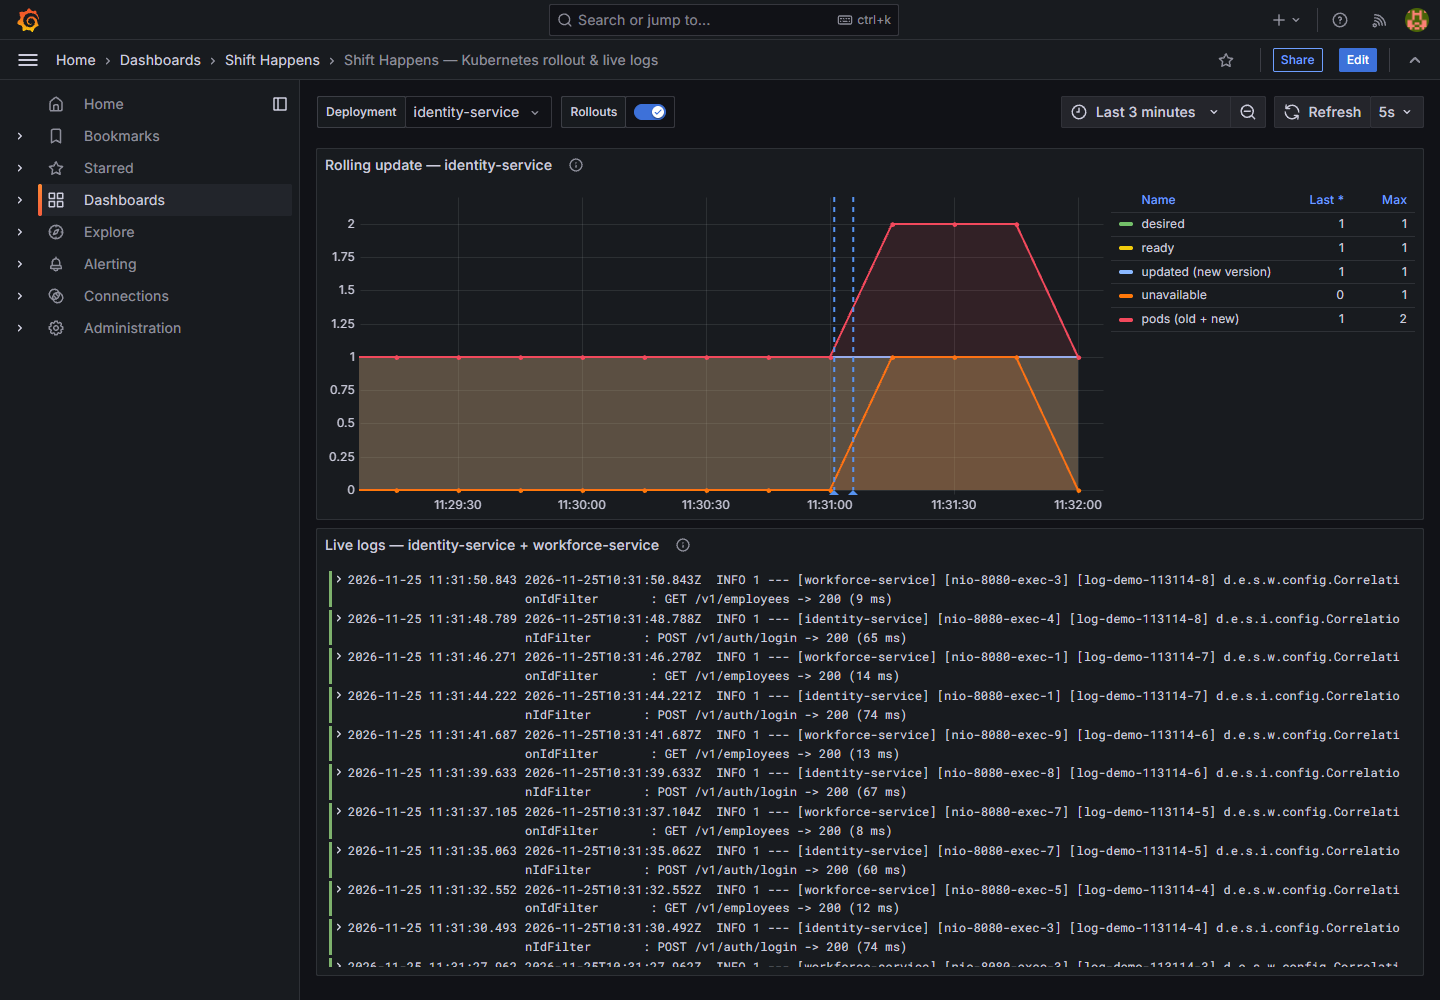
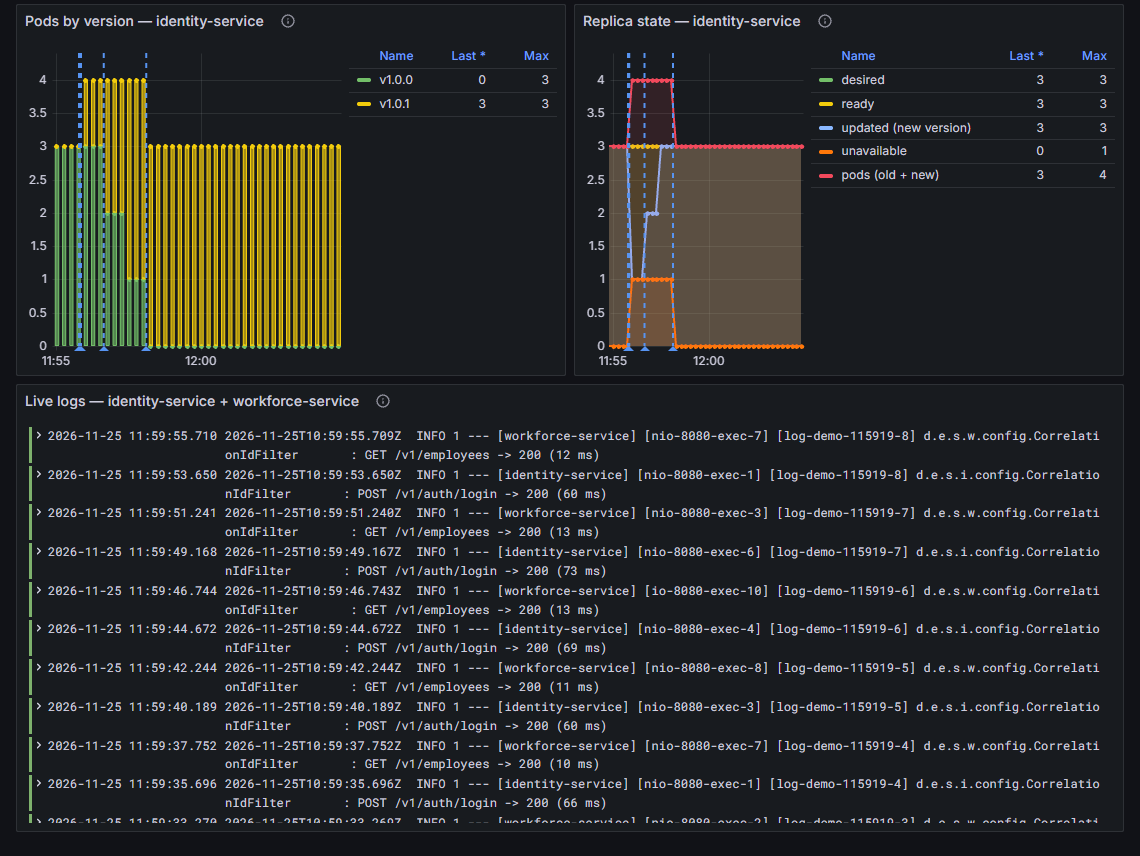
feat(observability): show versioned Kubernetes rollout

diff --git a/kubernetes/README.md b/kubernetes/README.md
@@ -16,7 +16,7 @@ kubernetes/
   tempo/, loki/, prometheus/, grafana/  local observability stack
   autoscaling/       hpa.yaml (CPU) + keda.yaml (queue-based ScaledObject/ScaledJob) + optional metrics bridge example
   metrics-server/    install note for the metrics API used by the HPAs
-  observability/     kube-state-metrics (Deployment replica metrics for the Grafana autoscaling panel)
+  observability/     kube-state-metrics (Deployment and pod/version metrics for Grafana)
   infrastructure/    cluster add-ons (ingress-nginx, KEDA, metrics-server)
   namespace.yaml     the shift-happens namespace
   ingress.yaml       ingress-nginx rules, same paths as the Compose Caddyfile
@@ -189,28 +189,42 @@ branch `main`, `services` = `all`.
 ## Rolling update demo (Grafana)
 
 The Compose Grafana instance (`http://localhost:3001`) scrapes kube-state-metrics and Loki from the
-Kubernetes stack, so it can show a Kubernetes rollout next to live application logs. The dashboards
-are **Shift Happens — Kubernetes rollout & live logs** and the Compose **Shift Happens — Live
-System**.
+Kubernetes stack, so it can show a version-aware Kubernetes rollout next to live application logs.
+The dashboard is **Shift Happens — Kubernetes rollout & live logs**.
 
 ```powershell
-# One new ReplicaSet, paused briefly so the overlap is visible in Prometheus.
-.\scripts\kubernetes-rollout-demo.ps1 -Deployment identity-service -PauseSeconds 60
+# identity-service is prepared at 3 x v1.0.0, then rolled to 3 x v1.0.1.
+# The default pause is 60 s; use -PauseSeconds 0 to let it run through.
+.\scripts\kubernetes-rollout-demo.ps1 `
+  -Deployment identity-service `
+  -FromVersion v1.0.0 `
+  -ToVersion v1.0.1 `
+  -Replicas 3 `
+  -PauseSeconds 60
 
 # Generate request logs in Identity and Workforce for the same dashboard.
 .\scripts\live-log-demo.ps1 -Gateway https://localhost:8443 -Count 12
 ```
 
-Open <http://localhost:3001/d/shift-happens-kubernetes-rollout>. Select the deployment in the
-**Deployment** variable; the panel shows desired, ready, updated, unavailable and the total old +
-new pod count. The script adds Grafana annotations for start, pause and resume so the screenshot
-shows exactly when the rollout happened. The captured example is
+Open <http://localhost:3001/d/shift-happens-kubernetes-rollout>. The **Pods by version** panel
+counts Running pods from `kube_pod_labels` and shows the intended sequence:
+
+| Phase | v1.0.0 | v1.0.1 | Total pods |
+|---|---:|---:|---:|
+| Baseline | 3 | 0 | 3 |
+| First new pod, rollout paused | 3 | 1 | 4 |
+| Rolling replacement | 2 | 2 | 4 |
+| Complete | 0 | 3 | 3 |
+
+The **Replica state** panel shows desired/ready/updated/unavailable and `pods (old + new)`. The script
+adds Grafana annotations for baseline, pause and completion. The captured example is
 [`docs/images/observability/kubernetes-rolling-update.png`](../docs/images/observability/kubernetes-rolling-update.png).
 
-A durable update can finish between two 15-second kube-state-metrics scrapes. `-PauseSeconds` keeps
-one new pod visible while the old pods keep serving, then resumes the same rollout; it does not
-change the Deployment strategy. The frontend Deployment also sets `minReadySeconds: 30` so a new
-pod is not marked available before it has stayed Ready.
+The pause is only a presentation aid: the same Deployment uses the normal rolling-update strategy,
+and `kubectl rollout resume` replaces the remaining old pods. `identity-service` has 3 replicas and
+its pod template carries `version: v1.0.0`; the script patches that label to `v1.0.1`, which creates
+the new ReplicaSet. kube-state-metrics is configured with `--resources=deployments,pods` and
+`--metric-labels-allowlist=pods=[app,version]`.
 
 The live log panel reads `{service=~"identity-service|workforce-service"}` from Loki. The two
 services log one request line per API call (method, path, status, duration and correlation id) and

diff --git a/setup.md b/setup.md
@@ -201,8 +201,8 @@ The rollout dashboard is in **Compose Grafana** (`3001`) because that Prometheus
 Kubernetes kube-state-metrics endpoint. Start with the Compose observability stack running, then:
 
 ```powershell
-# New ReplicaSet, paused for 60 s so the old + new pods are visible in Grafana.
-.\scripts\kubernetes-rollout-demo.ps1 -Deployment identity-service -PauseSeconds 60
+# identity-service is prepared at 3 x v1.0.0, then rolled to 3 x v1.0.1.
+.\scripts\kubernetes-rollout-demo.ps1 -Deployment identity-service -Replicas 3 -PauseSeconds 60
 
 # Create request logs in Identity and Workforce for the same dashboard.
 .\scripts\live-log-demo.ps1 -Gateway https://localhost:8443 -Count 12
@@ -213,8 +213,8 @@ Open:
 <http://localhost:3001/d/shift-happens-kubernetes-rollout>
 
 The screenshot is [`docs/images/observability/kubernetes-rolling-update.png`](docs/images/observability/kubernetes-rolling-update.png).
-The panel shows desired, ready, updated, unavailable and **pods (old + new)**; the logs panel shows
-both services with the `log-demo-*` correlation ids. See
+The **Pods by version** panel shows **3 × v1.0.0**, then **3 × v1.0.0 + 1 × v1.0.1**, then **0 ×
+v1.0.0 + 3 × v1.0.1**. The logs panel shows both services with the `log-demo-*` correlation ids. See
 [`kubernetes/README.md`](kubernetes/README.md#rolling-update-demo-grafana) for the full explanation.
 
 > The `5xx / min` is a stat panel on the normal Live System dashboard. It counts 5xx responses in
